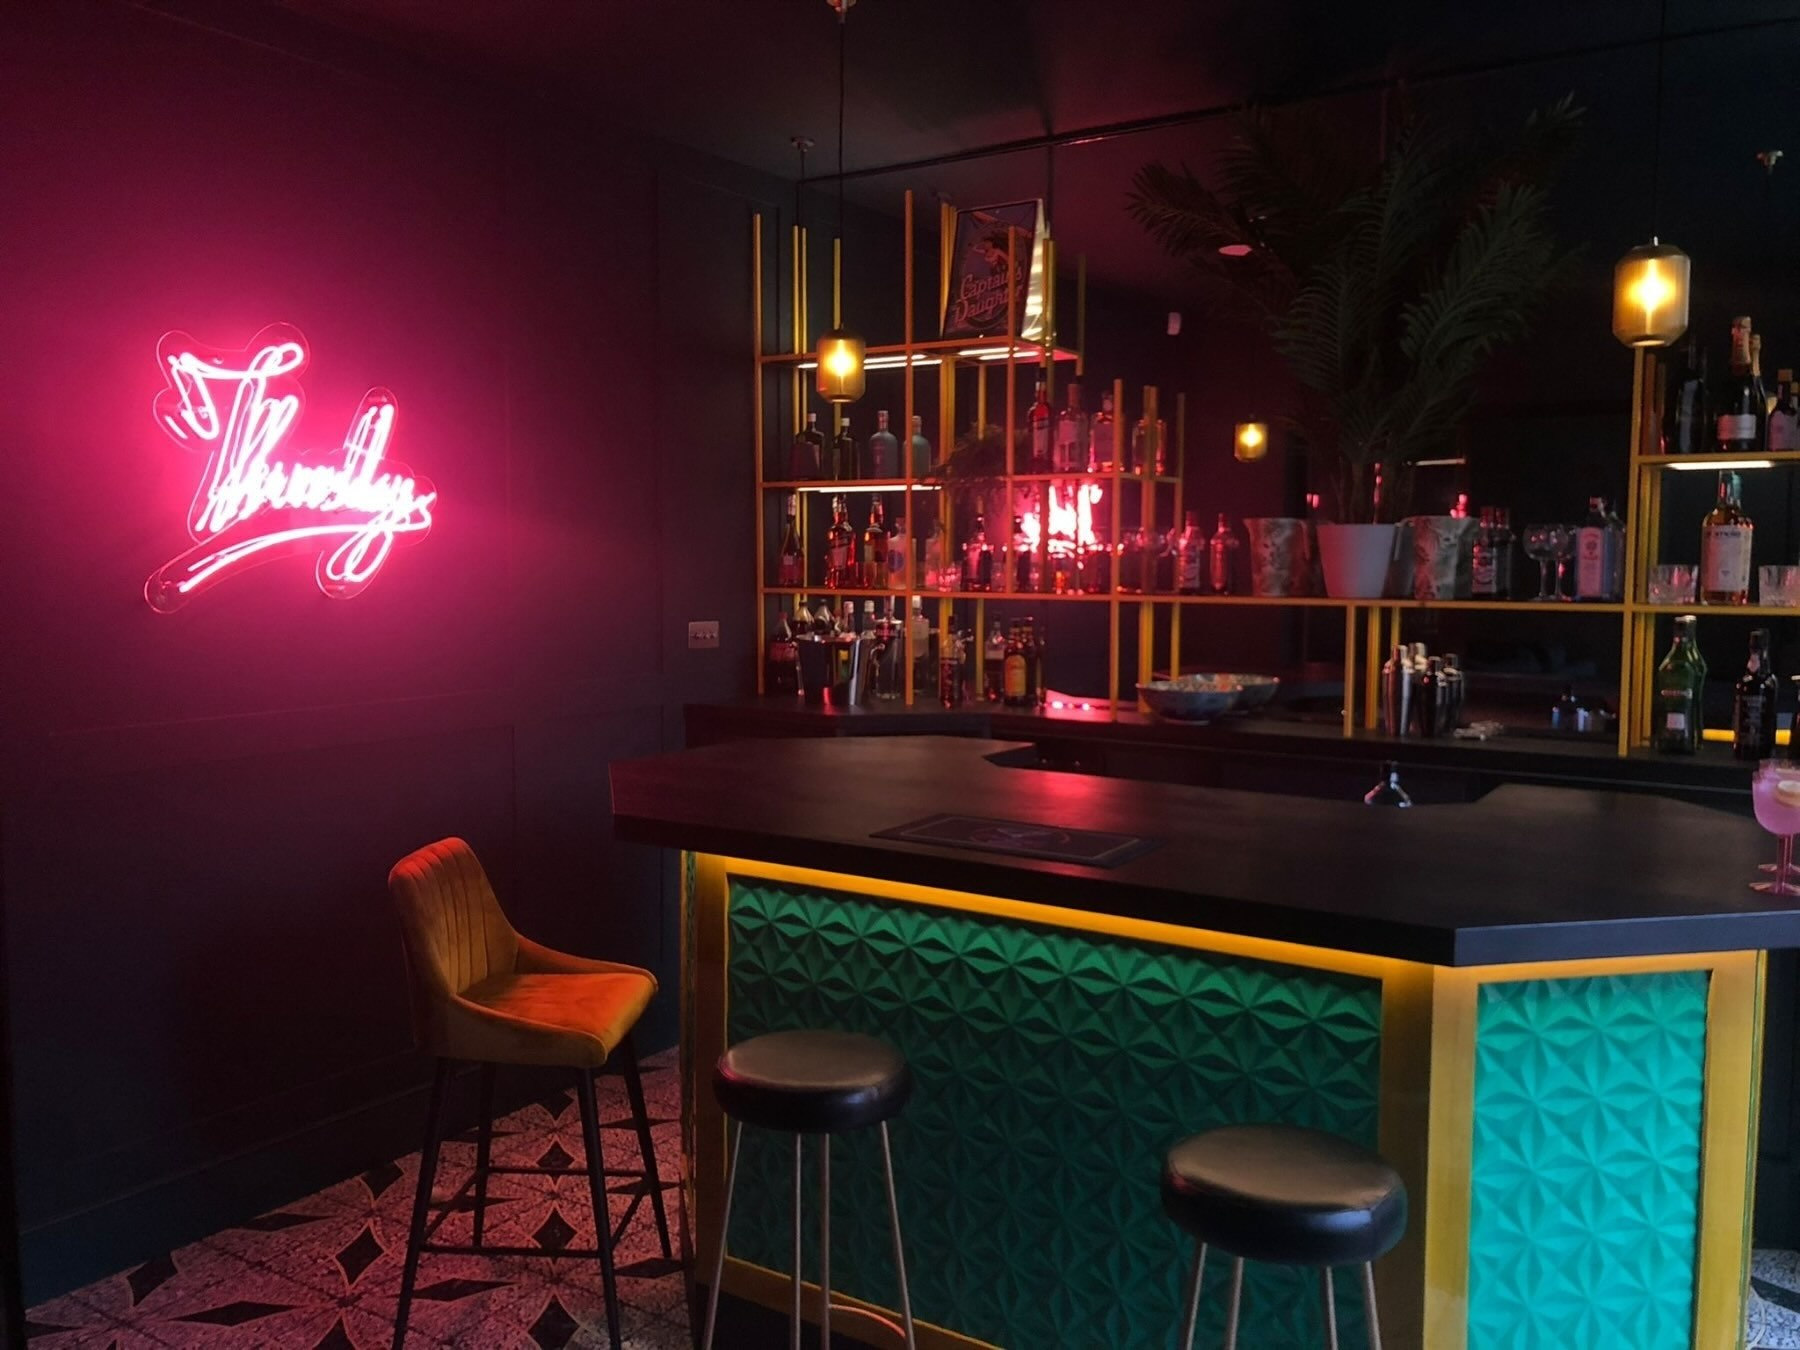
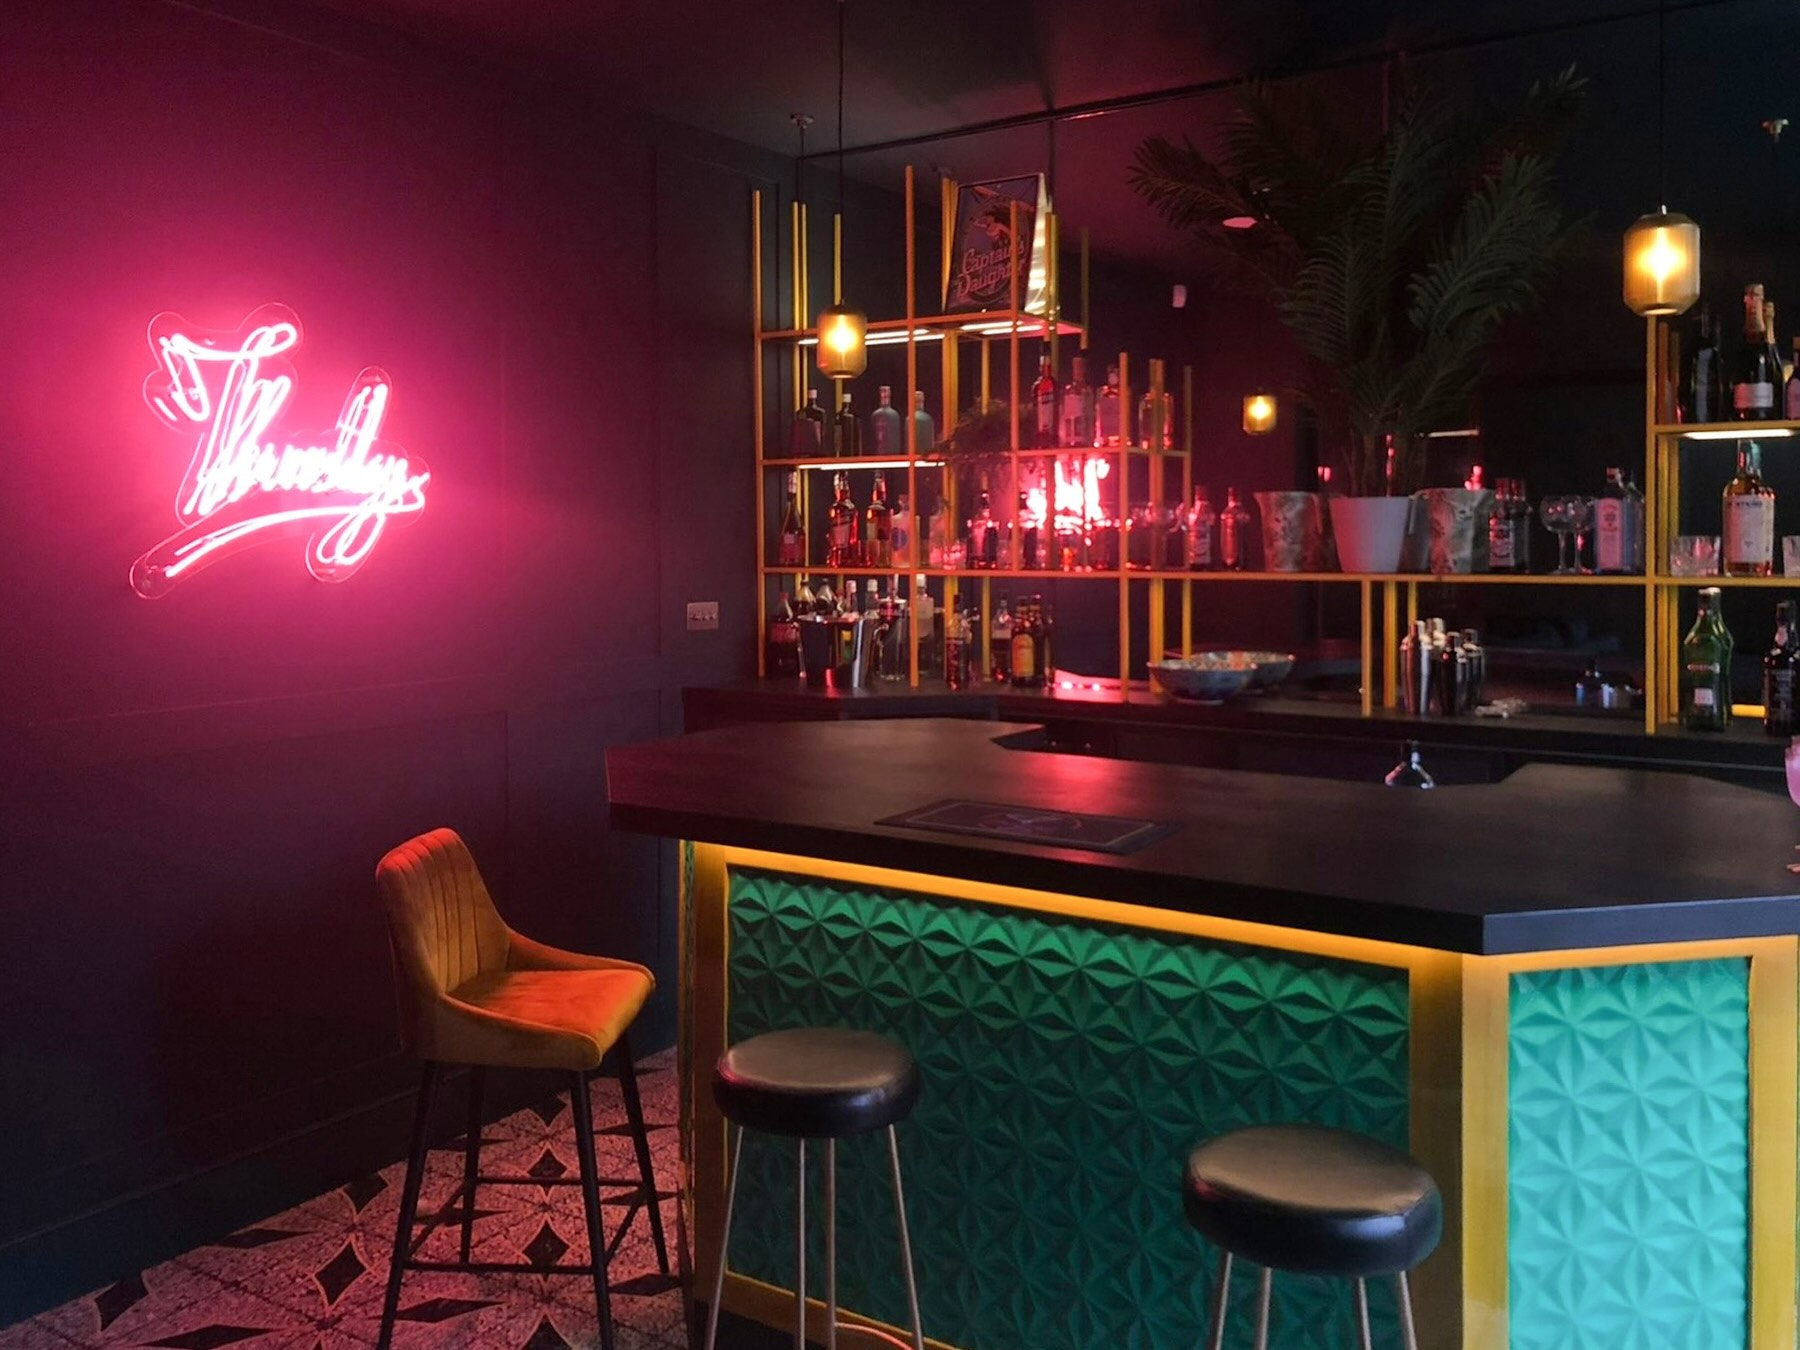
Entertainment Heaven: final Photoshop photos (facade, bar at night, kitchen, hot tub)

diff --git a/src/imageSizes.ts b/src/imageSizes.ts
@@ -12,6 +12,10 @@ export const imageSizes: Record<string, [number, number]> = {
 1020,
 1020
 ],
+"/images/email-logo.png": [
+300,
+300
+],
 "/images/entertainment-heaven.jpg": [
 1800,
 1702
